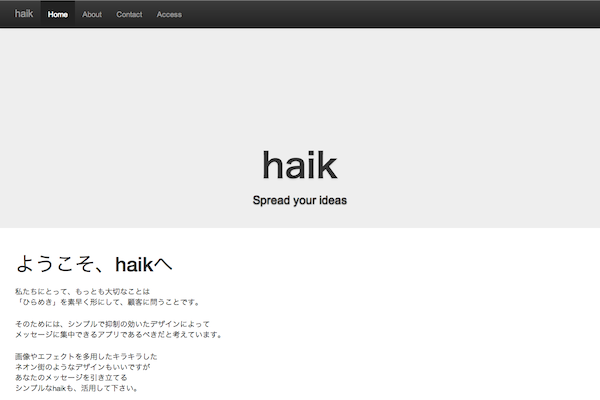
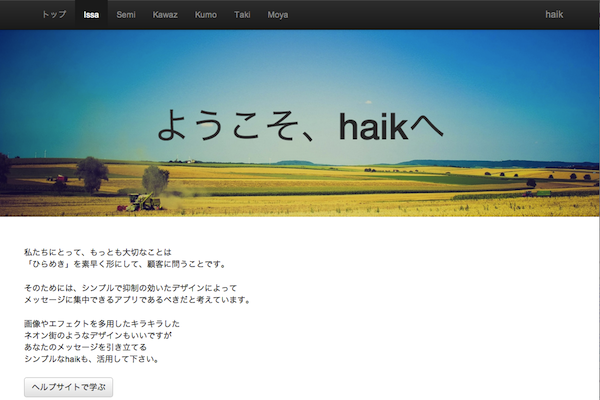
fitレイアウトを追加 横派がウィンドウ幅にフィットするレイアウト

diff --git a/fit.skin.php b/fit.skin.php
@@ -1,0 +1,95 @@
+<head prefix="#{$head_prefix}">
+	#{$meta_content_type}
+	<title>#{$page_title}</title>
+	#{$viewport}
+	<meta name="keywords" content="#{$keywords}">
+	<meta name="description" content="#{$description}">
+	<meta name="author" content="">
+	<link rel="alternate" type="application/rss+xml" title="RSS" href="#{$rss_link}">
+
+	#{$bootstrap_css}
+	#{$style_css}
+	
+	#{$head_tag}
+	#{$plugin_head}
+	#{$user_head}
+	
+	#{$tracking_script}
+
+</head>
+
+<body>
+#{$body_first}
+#{$sr_link}
+
+<div id="orgm_container">
+
+	<header>
+
+		<!-- Navbar
+		================================================== -->
+		<div id="orgm_navbar" class="navbar navbar-inverse navbar-fixed-top">
+			<div class="container">
+				<div class="navbar-header navbar-right">
+					<button type="button" class="navbar-toggle" data-toggle="collapse" data-target=".navbar-collapse">
+						<span class="icon-bar"></span>
+						<span class="icon-bar"></span>
+						<span class="icon-bar"></span>
+					</button>
+					<div id="logo">#{$logo}</div>
+				</div>
+				<nav class="navbar-collapse collapse">
+					#{$site_navigator}
+				</nav>
+			</div>
+		</div>
+	
+		<!-- EyeCatch
+		================================================== -->
+		<div id="orgm_eyecatch" class="">#{$eyecatch}</div>
+
+	</header>
+
+	<!-- Body
+	================================================== -->
+	<div id="contents" role="main" class="marketing">
+		#{$body}
+	</div>
+
+	<aside>
+		#{$summary}
+	</aside>
+
+	<!-- Footer
+	================================================== -->
+	<footer class="footer">
+		<div class="container">
+			<div>
+				#{$site_footer}
+			</div>
+
+			<div id="license">
+				#{$license_tag}
+			</div>
+		</div>
+	</footer>
+
+</div>
+
+
+
+#{$admin_nav}
+#{$body_last}
+
+<!-- Script
+================================================== -->
+#{$jquery_script}
+#{$bootstrap_script}
+#{$common_script}
+#{$admin_script}
+
+#{$plugin_script}
+#{$user_script}
+
+</body>
+</html>

diff --git a/config.php b/config.php
@@ -1,7 +1,7 @@
 <?php
 $config = array(
 	'name' => 'issa',
-	'version' => '1.1.0',
+	'version' => '1.2.0',
 	'thumbnail' => 'img/thumbnail.png',
 	'style_file' => 'css/docs.css',
 	'templates' => array(
@@ -9,6 +9,11 @@ $config = array(
 			'filename' => 'top.skin.php',
 			'layouts' => array('SiteNavigator', 'SiteFooter'),
 			'thumbnail' => 'img/thumbnail.top.png',
+		),
+		'fit' => array(
+			'filename' => 'fit.skin.php',
+			'layouts' => array('SiteNavigator', 'SiteFooter'),
+			'thumbnail' => 'img/thumbnail.fit.png',
 		),
 	),
 	'default_template' => 'top',
